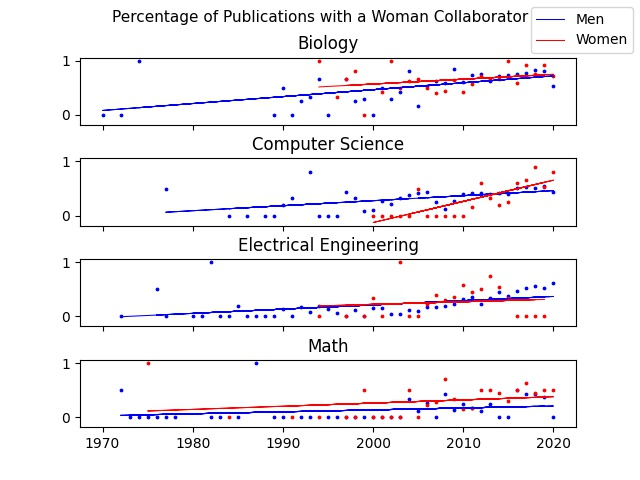
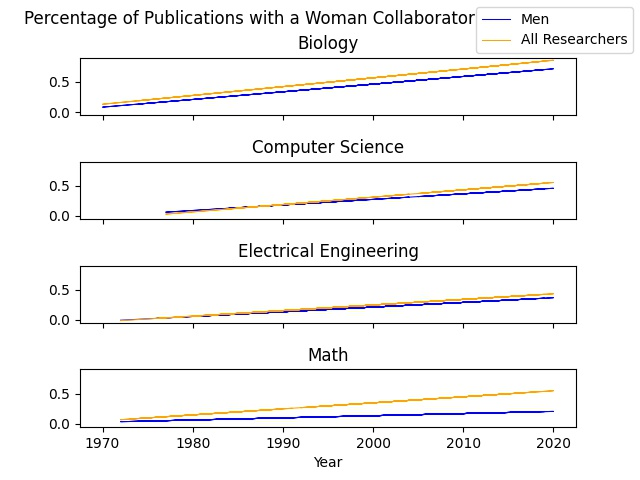
Claim 8 fix

diff --git a/claims.py b/claims.py
@@ -649,61 +649,82 @@ def claim_8():
 
     bio_m_map = {year: sum(map(cid_contains_woman_author, cids)) / len(cids) for year, cids in
                  map_year_to_publications(get_all_publications(bio_m)).items()}
-    bio_f_map = {year: sum(map(lambda cid: cid_contains_woman_author(cid, True), cids)) / len(cids) for year, cids in
-                 map_year_to_publications(get_all_publications(bio_f)).items()}
+    # bio_f_map = {year: sum(map(lambda cid: cid_contains_woman_author(cid, True), cids)) / len(cids) for year, cids in
+    #              map_year_to_publications(get_all_publications(bio_f)).items()}
     cs_m_map = {year: sum(map(cid_contains_woman_author, cids)) / len(cids) for year, cids in
                 map_year_to_publications(get_all_publications(cs_m)).items()}
-    cs_f_map = {year: sum(map(lambda cid: cid_contains_woman_author(cid, True), cids)) / len(cids) for year, cids in
-                map_year_to_publications(get_all_publications(cs_f)).items()}
+    # cs_f_map = {year: sum(map(lambda cid: cid_contains_woman_author(cid, True), cids)) / len(cids) for year, cids in
+    #             map_year_to_publications(get_all_publications(cs_f)).items()}
     ee_m_map = {year: sum(map(cid_contains_woman_author, cids)) / len(cids) for year, cids in
                 map_year_to_publications(get_all_publications(ee_m)).items()}
-    ee_f_map = {year: sum(map(lambda cid: cid_contains_woman_author(cid, True), cids)) / len(cids) for year, cids in
-                map_year_to_publications(get_all_publications(ee_f)).items()}
+    # ee_f_map = {year: sum(map(lambda cid: cid_contains_woman_author(cid, True), cids)) / len(cids) for year, cids in
+    #             map_year_to_publications(get_all_publications(ee_f)).items()}
     math_m_map = {year: sum(map(cid_contains_woman_author, cids)) / len(cids) for year, cids in
                   map_year_to_publications(get_all_publications(math_m)).items()}
-    math_f_map = {year: sum(map(lambda cid: cid_contains_woman_author(cid, True), cids)) / len(cids) for year, cids in
-                  map_year_to_publications(get_all_publications(math_f)).items()}
+    # math_f_map = {year: sum(map(lambda cid: cid_contains_woman_author(cid, True), cids)) / len(cids) for year, cids in
+    #               map_year_to_publications(get_all_publications(math_f)).items()}
+
+    bio_all_map = {year: sum(map(cid_contains_woman_author, cids)) / len(cids) for year, cids in
+                 map_year_to_publications(get_all_publications(bio_rids)).items()}
+    cs_all_map = {year: sum(map(cid_contains_woman_author, cids)) / len(cids) for year, cids in
+                   map_year_to_publications(get_all_publications(cs_rids)).items()}
+    ee_all_map = {year: sum(map(cid_contains_woman_author, cids)) / len(cids) for year, cids in
+                   map_year_to_publications(get_all_publications(ee_rids)).items()}
+    math_all_map = {year: sum(map(cid_contains_woman_author, cids)) / len(cids) for year, cids in
+                   map_year_to_publications(get_all_publications(math_rids)).items()}
 
     bio_m_lin = get_line(bio_m_map.keys(), bio_m_map.values())
-    bio_f_lin = get_line(bio_f_map.keys(), bio_f_map.values())
+    # bio_f_lin = get_line(bio_f_map.keys(), bio_f_map.values())
     cs_m_lin = get_line(cs_m_map.keys(), cs_m_map.values())
-    cs_f_lin = get_line(cs_f_map.keys(), cs_f_map.values())
+    # cs_f_lin = get_line(cs_f_map.keys(), cs_f_map.values())
     ee_m_lin = get_line(ee_m_map.keys(), ee_m_map.values())
-    ee_f_lin = get_line(ee_f_map.keys(), ee_f_map.values())
+    # ee_f_lin = get_line(ee_f_map.keys(), ee_f_map.values())
     math_m_lin = get_line(math_m_map.keys(), math_m_map.values())
-    math_f_lin = get_line(math_f_map.keys(), math_f_map.values())
+    # math_f_lin = get_line(math_f_map.keys(), math_f_map.values())
+
+    bio_lin = get_line(bio_all_map.keys(), bio_all_map.values())
+    cs_lin = get_line(cs_all_map.keys(), cs_all_map.values())
+    ee_lin = get_line(ee_all_map.keys(), ee_all_map.values())
+    math_lin = get_line(math_all_map.keys(), math_all_map.values())
 
     fig, ax = plt.subplots(4, 1, sharex=True, sharey=True)
 
     plt.subplots_adjust(hspace=0.5)
 
-    ax[0].scatter(bio_m_map.keys(), bio_m_map.values(), c='#0000FF', s=3)
-    ax[0].scatter(bio_f_map.keys(), bio_f_map.values(), c='#FF0000', s=3)
+    # ax[0].scatter(bio_m_map.keys(), bio_m_map.values(), c='#0000FF', s=3)
+    # ax[0].scatter(bio_f_map.keys(), bio_f_map.values(), c='#FF0000', s=3)
     ax[0].plot(bio_m_lin[0], bio_m_lin[1], c='#0000FF', linewidth=0.75)
-    ax[0].plot(bio_f_lin[0], bio_f_lin[1], c='#FF0000', linewidth=0.75)
+    # ax[0].plot(bio_f_lin[0], bio_f_lin[1], c='#FF0000', linewidth=0.75)
+    ax[0].plot(bio_lin[0], bio_lin[1], c='#FFA500', linewidth=0.75)
     ax[0].set_title('Biology')
 
-    ax[1].scatter(cs_m_map.keys(), cs_m_map.values(), c='#0000FF', s=3)
-    ax[1].scatter(cs_f_map.keys(), cs_f_map.values(), c='#FF0000', s=3)
+    # ax[1].scatter(cs_m_map.keys(), cs_m_map.values(), c='#0000FF', s=3)
+    # ax[1].scatter(cs_f_map.keys(), cs_f_map.values(), c='#FF0000', s=3)
     ax[1].plot(cs_m_lin[0], cs_m_lin[1], c='#0000FF', linewidth=0.75)
-    ax[1].plot(cs_f_lin[0], cs_f_lin[1], c='#FF0000', linewidth=0.75)
+    # ax[1].plot(cs_f_lin[0], cs_f_lin[1], c='#FF0000', linewidth=0.75)
+    ax[1].plot(cs_lin[0], cs_lin[1], c='#FFA500', linewidth=0.75)
     ax[1].set_title('Computer Science')
 
-    ax[2].scatter(ee_m_map.keys(), ee_m_map.values(), c='#0000FF', s=3)
-    ax[2].scatter(ee_f_map.keys(), ee_f_map.values(), c='#FF0000', s=3)
+    # ax[2].scatter(ee_m_map.keys(), ee_m_map.values(), c='#0000FF', s=3)
+    # ax[2].scatter(ee_f_map.keys(), ee_f_map.values(), c='#FF0000', s=3)
     ax[2].plot(ee_m_lin[0], ee_m_lin[1], c='#0000FF', linewidth=0.75)
-    ax[2].plot(ee_f_lin[0], ee_f_lin[1], c='#FF0000', linewidth=0.75)
+    # ax[2].plot(ee_f_lin[0], ee_f_lin[1], c='#FF0000', linewidth=0.75)
+    ax[2].plot(ee_lin[0], ee_lin[1], c='#FFA500', linewidth=0.75)
     ax[2].set_title('Electrical Engineering')
 
-    ax[3].scatter(math_m_map.keys(), math_m_map.values(), c='#0000FF', s=3)
-    ax[3].scatter(math_f_map.keys(), math_f_map.values(), c='#FF0000', s=3)
+    # ax[3].scatter(math_m_map.keys(), math_m_map.values(), c='#0000FF', s=3)
+    # ax[3].scatter(math_f_map.keys(), math_f_map.values(), c='#FF0000', s=3)
     ax[3].plot(math_m_lin[0], math_m_lin[1], c='#0000FF', linewidth=0.75)
-    ax[3].plot(math_f_lin[0], math_f_lin[1], c='#FF0000', linewidth=0.75)
+    # ax[3].plot(math_f_lin[0], math_f_lin[1], c='#FF0000', linewidth=0.75)
+    ax[3].plot(math_lin[0], math_lin[1], c='#FFA500', linewidth=0.75)
     ax[3].set_title('Math')
 
-    fig.suptitle('Percentage of Publications with a Woman Collaborator', fontsize=11)
+    plt.subplots_adjust(hspace=0.8)
+    fig.suptitle('Percentage of Publications with a Woman Collaborator', x=0.39)
 
-    fig.legend(['Men', 'Women'])
+    fig.legend(['Men', 'All Researchers'], loc='upper right')
+
+    plt.xlabel('Year')
 
     plt.savefig('./data/claim8.jpg')
 
@@ -790,4 +811,4 @@ def claim_9():
     plt.savefig('./data/claim9.jpg')
 
 
-claim_2_1()
+claim_8()
